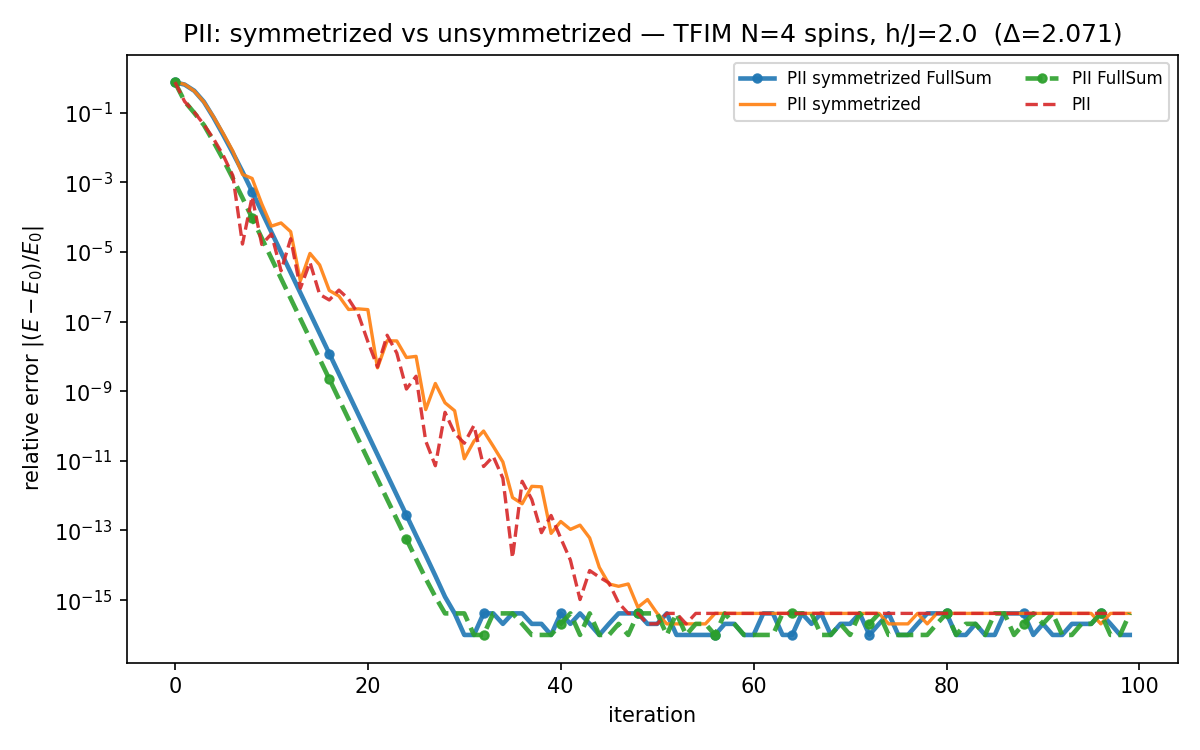
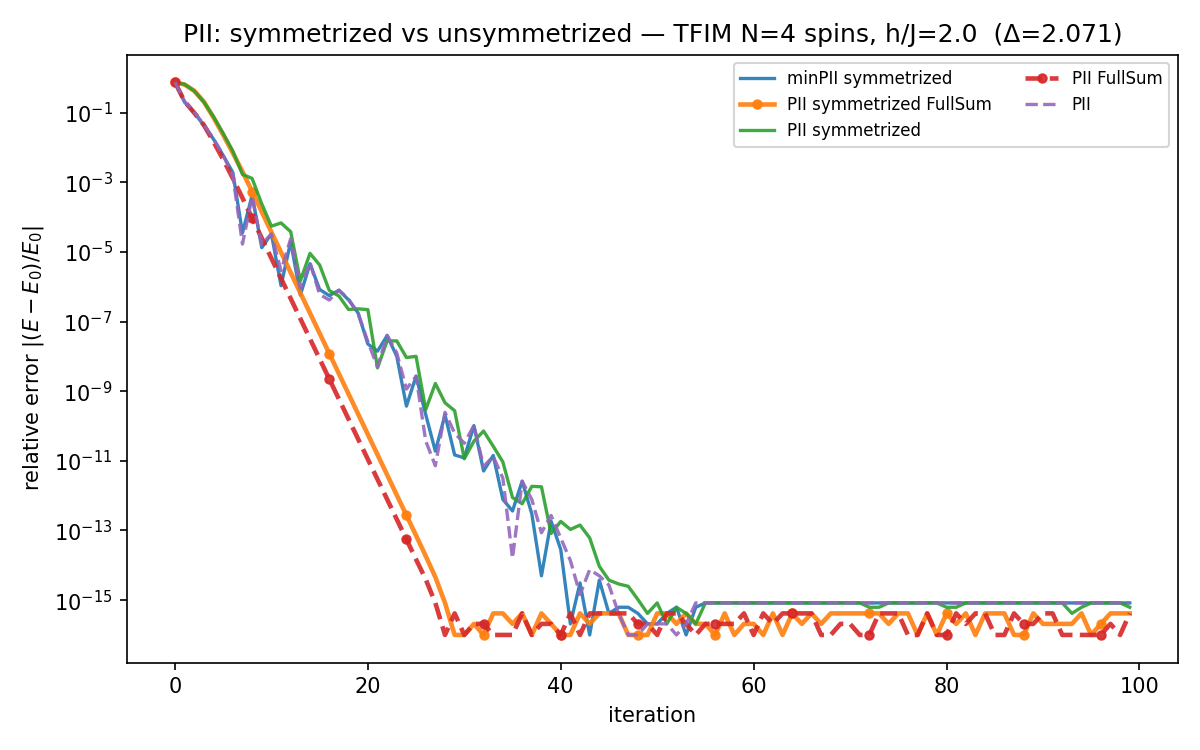
Working symmetrization, all done

diff --git a/pii/examples/compare_pii_symmetrized_tfim.py b/pii/examples/compare_pii_symmetrized_tfim.py
@@ -80,6 +80,7 @@ print(f"PII η = {lr_pii};  diag_shift (unsym) = {diag_shift_pii};  "
 # and FullSum runs. NOTE: the driver diag_shift must be 0 for these runs (the
 # regularization is carried by the solver's diag_shift here).
 solver = None
+# since we symmetrize, we can use the Cholesky solver
 solver = nk.optimizer.solver.cholesky
 sym_solver = partial(pii.symmetrized_solver, diag_shift=diag_shift_pii_symm, solver=solver)
 
@@ -92,6 +93,10 @@ runs = {
     "PII symmetrized": (
         lr_pii,
         dict(diag_shift=0.0, pii=True, tau=tau, use_ntk=False, linear_solver=sym_solver),
+    ),
+    "minPII symmetrized": (
+        lr_pii,
+        dict(diag_shift=0.0, pii=True, tau=tau, use_ntk=True, linear_solver=sym_solver),
     ),
     "PII FullSum": (
         lr_pii,

diff --git a/pii/examples/compare_sr_pii_tfim.py b/pii/examples/compare_sr_pii_tfim.py
@@ -137,7 +137,7 @@ runs = {
 _init = normal(stddev=0.3)
 model = pii.models.RBMRealParams(
     alpha=1, param_dtype=jnp.float64,
-    kernel_init=_init, hidden_bias_init=_init, visible_bias_init=_init,
+    kernel_init=_init, #hidden_bias_init=_init, visible_bias_init=_init,
 )
 init_params = nk.vqs.FullSumState(hi, model, seed=0).parameters
 
